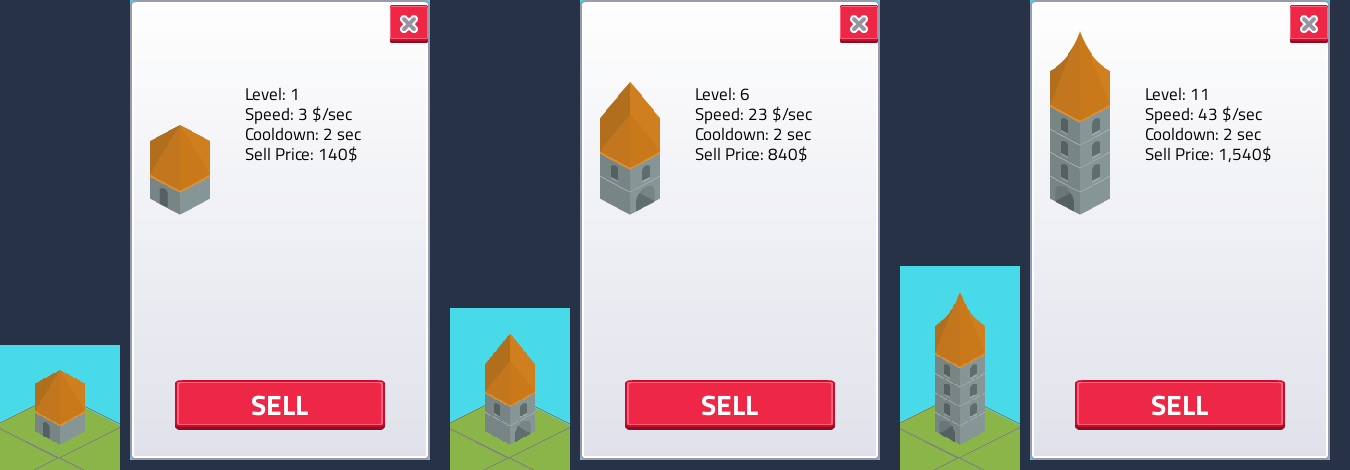
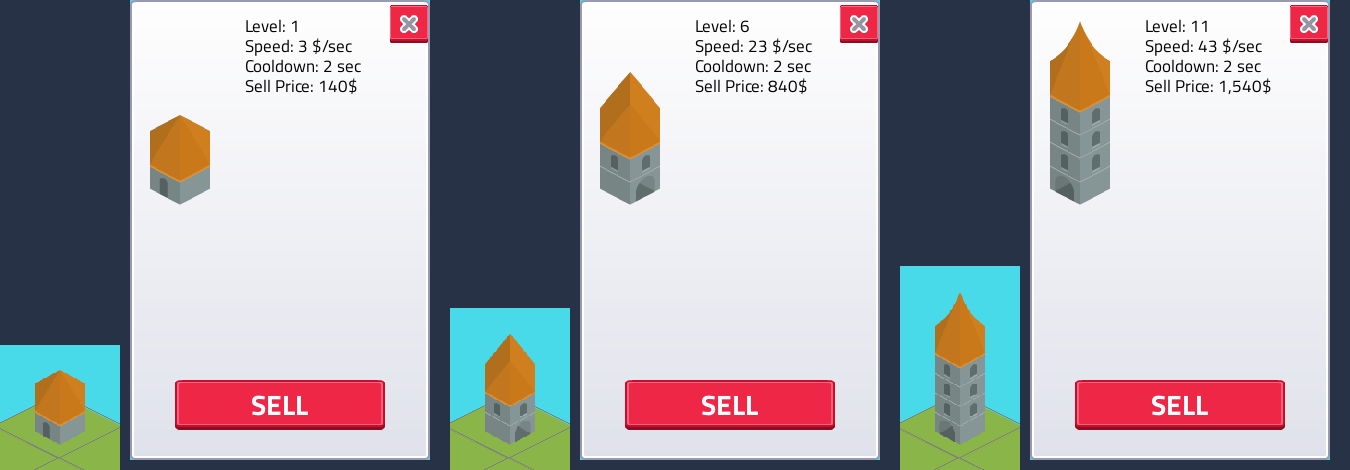
fix: Top-align the info panel image and texts

diff --git a/docs/devlog/2026-11-11-building-recipes.md b/docs/devlog/2026-11-11-building-recipes.md
@@ -64,7 +64,7 @@ every age.
 
 The info panel shows the same building as the board: same pieces, door side and proportions, at one
 fixed scale (1.2x) for every level, foot at the bottom of the box, so level growth shows there too.
-Its box in `config/panels.yaml` is 60x185 (the tallest sprite, level 11, is 154 px in the world and
+Its box in `config/panels.yaml` is 60x185, top-aligned with the first text line just under the panel top (the tallest sprite, level 11, is 154 px in the world and
 fits at 1.2x); the image scales with the UI scale. Left to right for each level: the board, then
 the open info panel.
 
